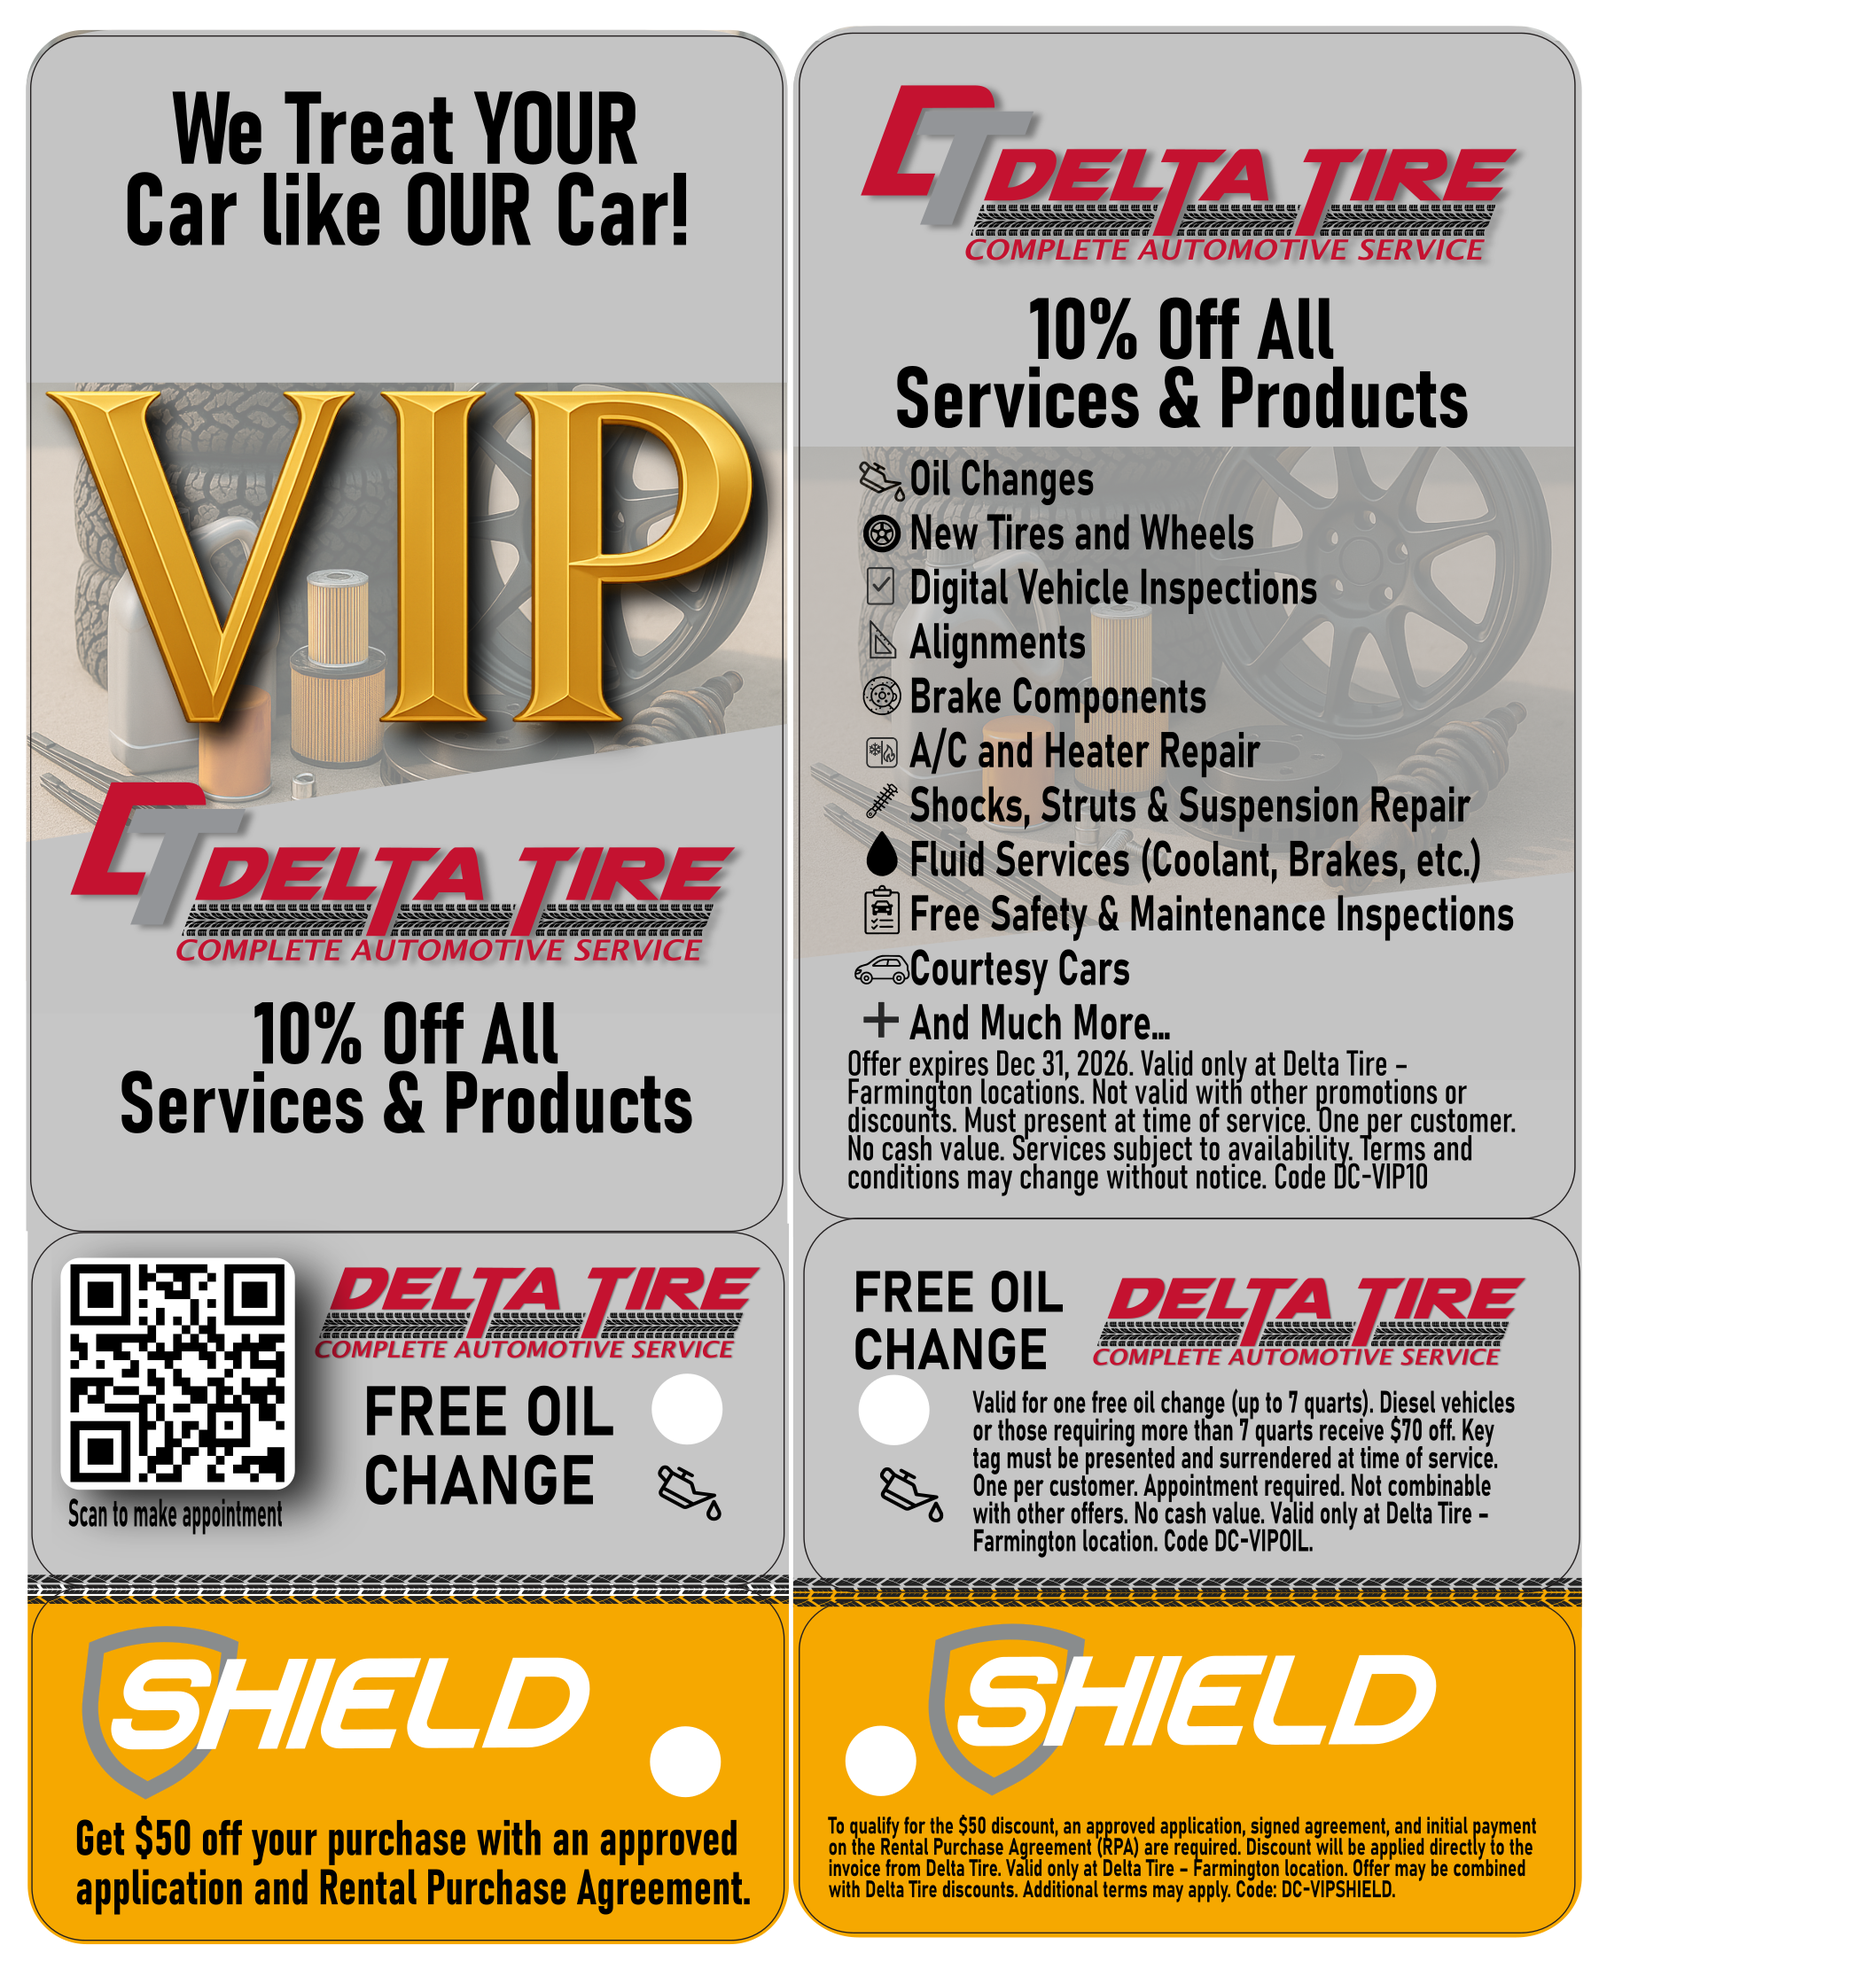
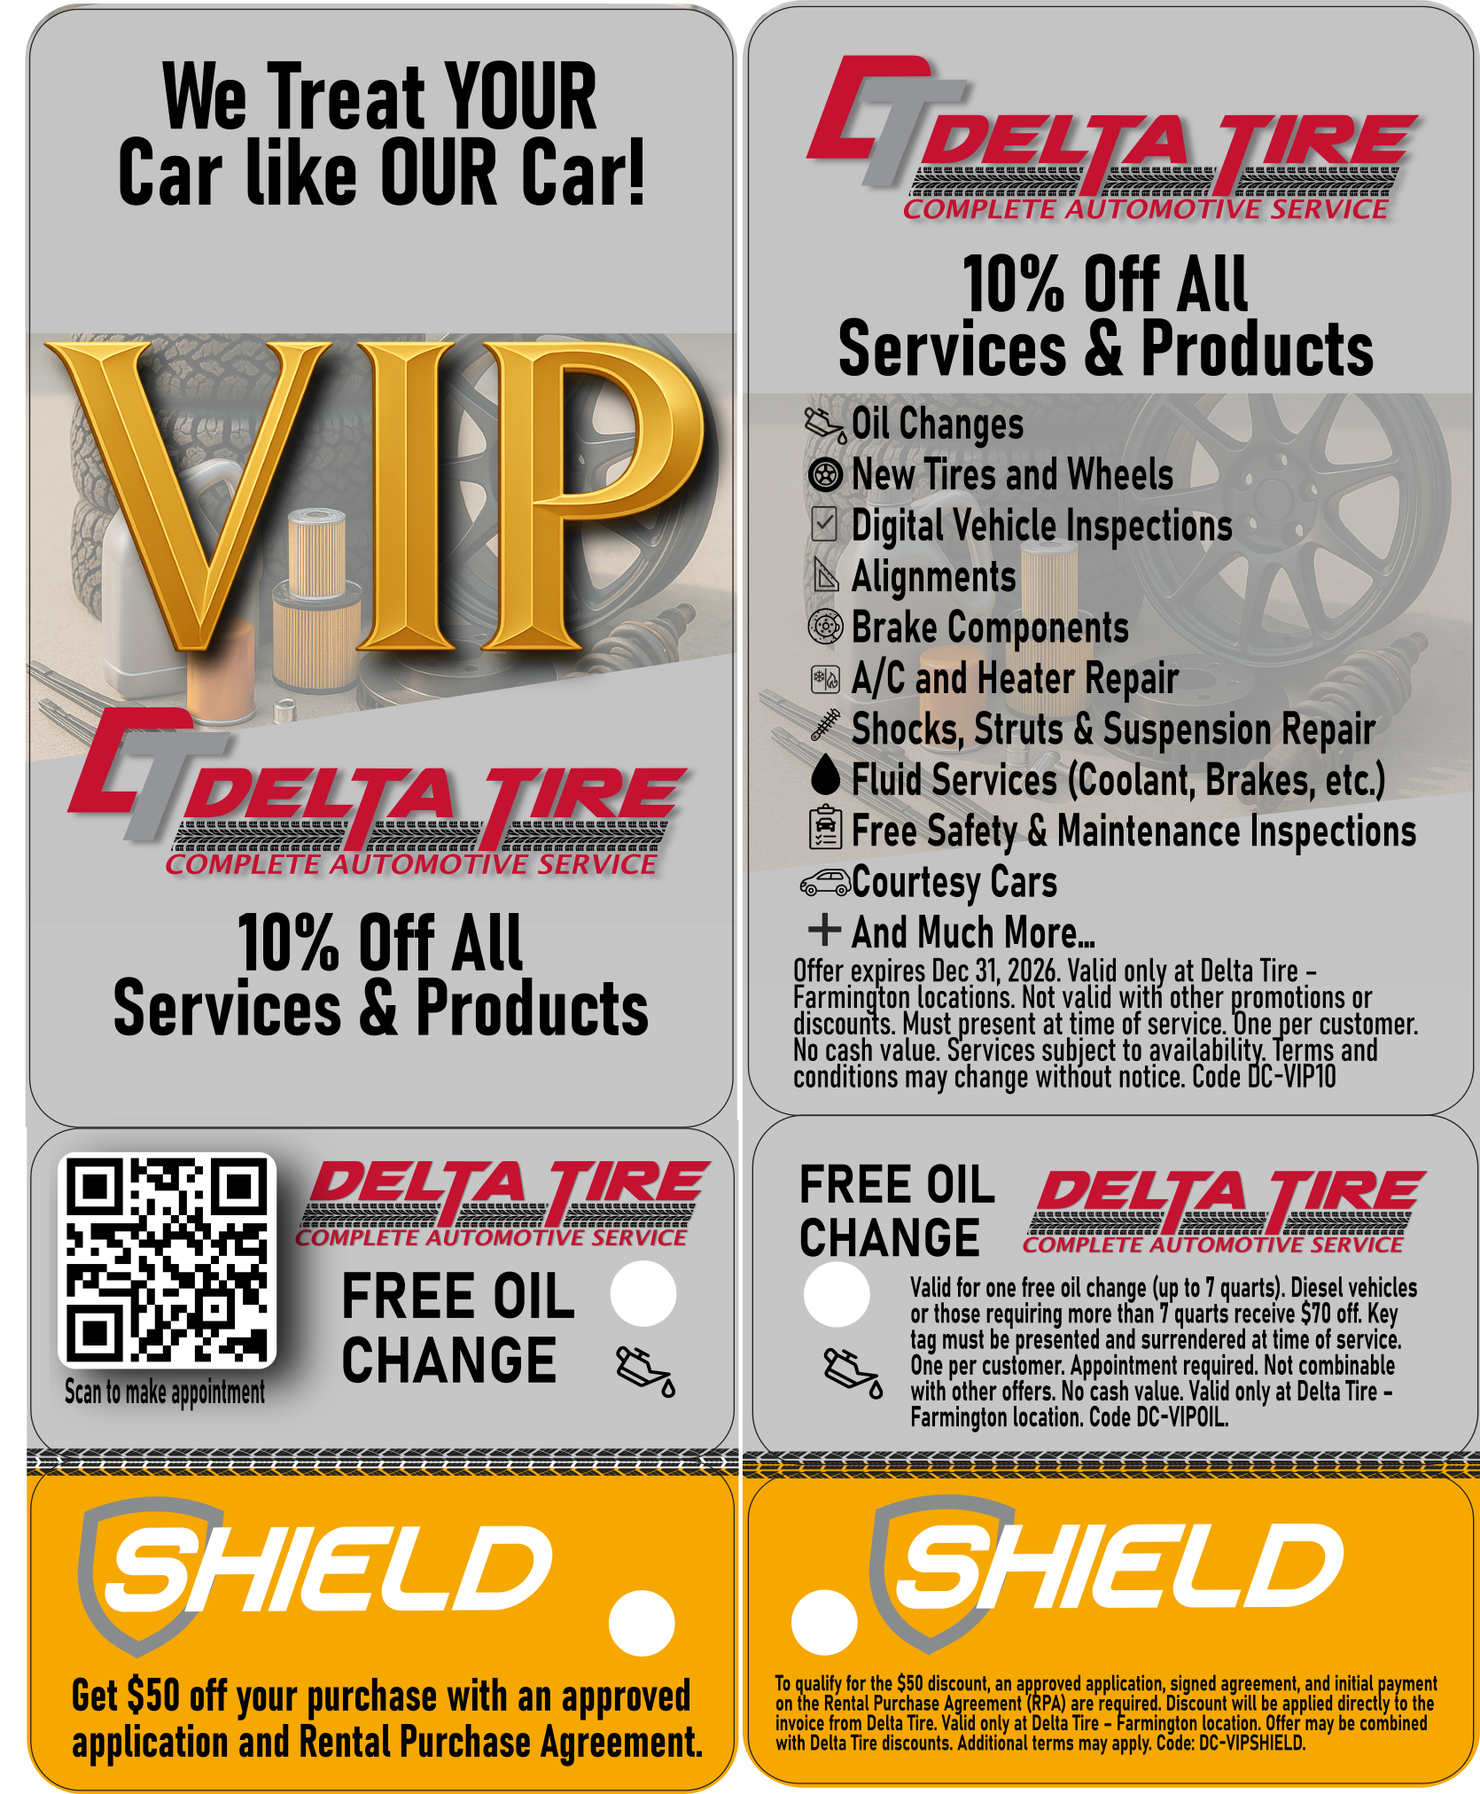
Update the VIP card image and consolidate fundraising program details
Replaced the existing vip-card.png with an updated version and consolidated two separate fundraising tiers into a single unified page at /vip-fundraising.html, featuring a new design, updated messaging, and enhanced functionality including automatic redirects from legacy URLs. The page now showcases a gradient hero section, stats, a 3-step process, VIP card imagery, benefits cards, and a sign-up form with validation and error handling.

Replit-Commit-Author: Agent
Replit-Commit-Session-Id: 9a3b6584-62c4-468b-a2fa-160bceaa98ea
Replit-Commit-Checkpoint-Type: full_checkpoint
Replit-Commit-Screenshot-Url: https://storage.googleapis.com/screenshot-production-us-central1/ced60103-3fed-43c9-a970-990a11f92e77/9a3b6584-62c4-468b-a2fa-160bceaa98ea/6347efg

diff --git a/replit.md b/replit.md
@@ -97,6 +97,27 @@ Delta Tire is a multi-location automotive service business operating across New 
   - Consistent with SMS-based communication strategy across the site
 - No backend needed - fully client-side functionality
 
+**VIP Fundraising Program Consolidation**
+- Consolidated two separate fundraising tiers (60% and 75%) into single generic program
+- New unified page at `/vip-fundraising.html` with modern, professional design
+- Updated messaging: Organizations get 80%+ of proceeds, Delta keeps small admin fee
+- Legacy URLs redirect automatically:
+  - `/fundraising-program-60.html` → `/vip-fundraising.html`
+  - `/fundraising-program-75.html` → `/vip-fundraising.html`
+- Page features:
+  - Gradient hero section with main value proposition
+  - Stats section: 80%+ to organization, $0 upfront costs, 100% real value
+  - "How It Works" 3-step process with numbered icons
+  - VIP card image showcase
+  - Benefits cards (Free Oil Change, 10% Off All Services, $50 Off Shield Leasing)
+  - Sign-up form with proper validation and error handling
+- Form implementation:
+  - Blocks submission when Google Apps Script webhook not configured (shows alert)
+  - Proper response validation - only shows success on 2xx responses
+  - Helpful error messages with all location phone numbers on failure
+  - All interactive elements have data-testid attributes for testing
+- Ready for production: Requires webhook URL configuration in production deployment
+
 ## User Preferences
 
 Preferred communication style: Simple, everyday language.
